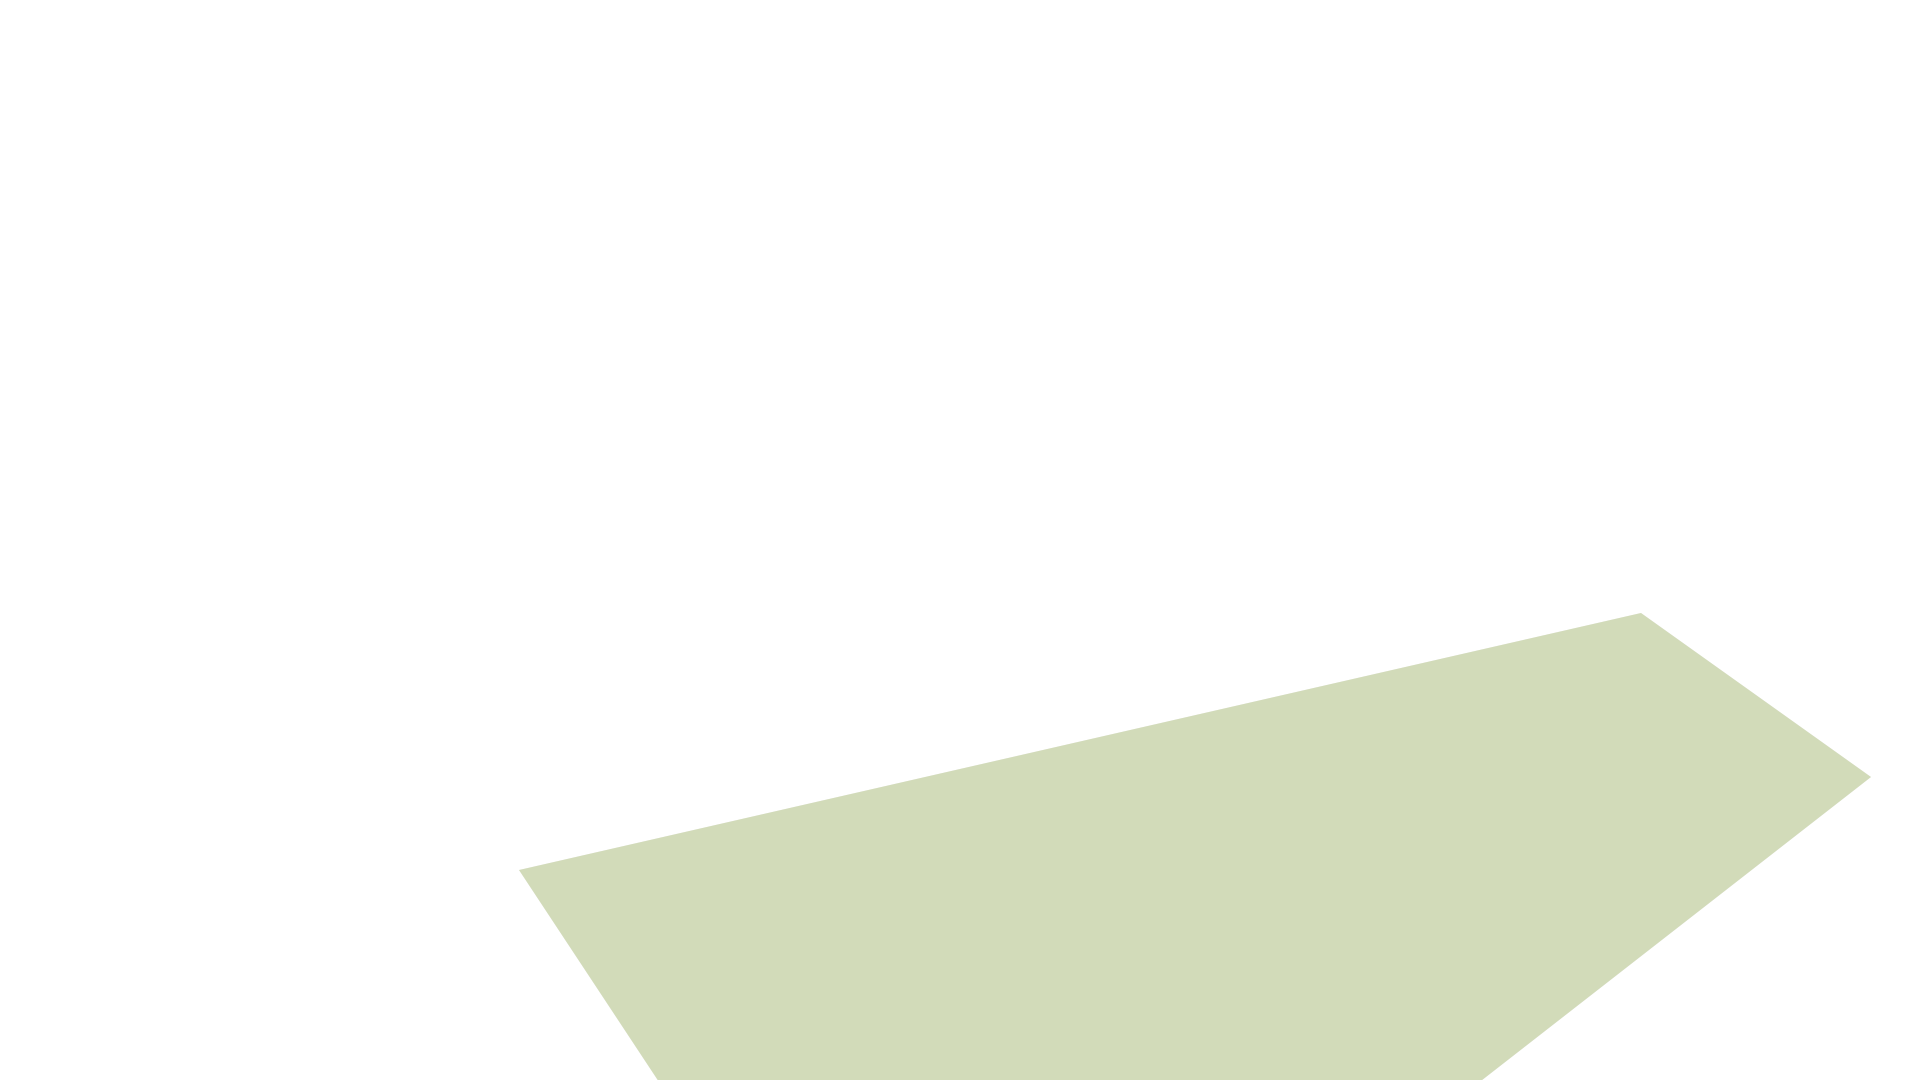
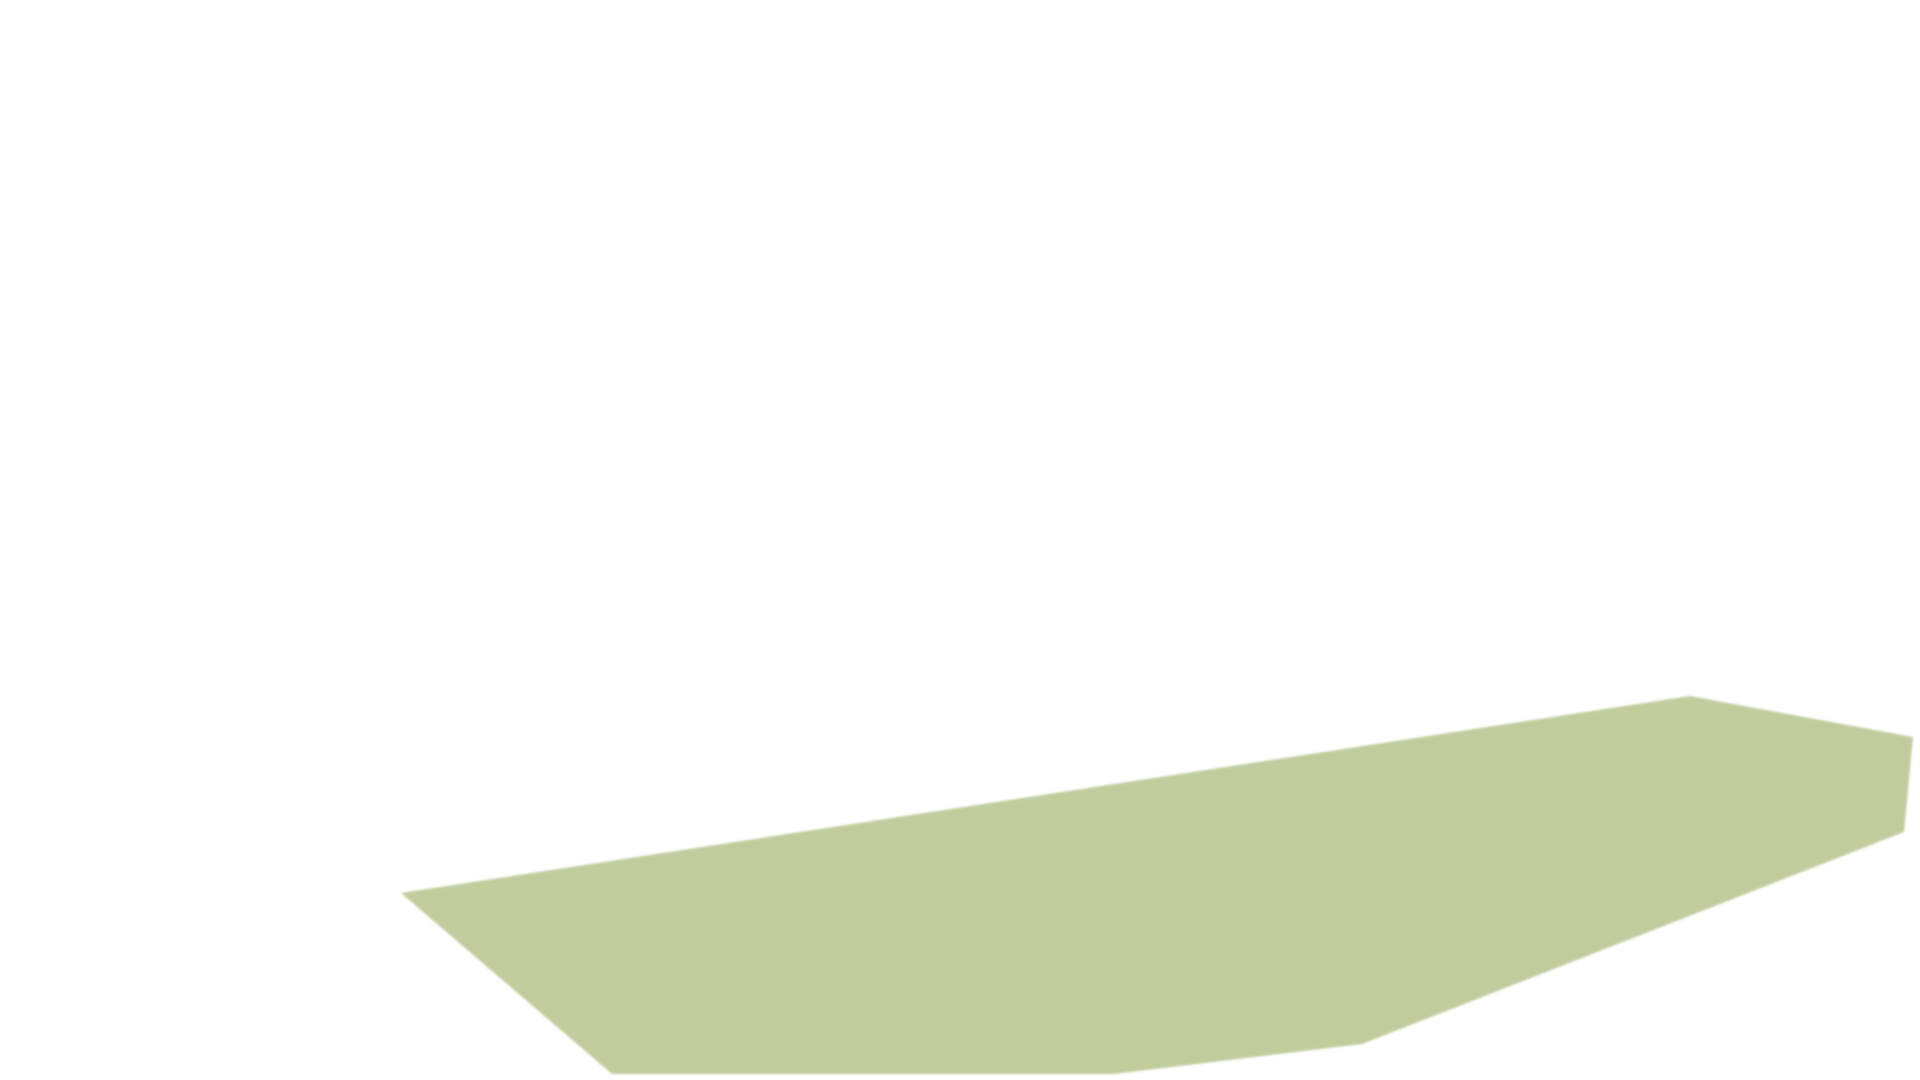
Update images

Changed region(s): [[0.1875, 0.55, 1.0, 1.0]]

diff --git a/build/six-diamonds.html b/build/six-diamonds.html
@@ -75,13 +75,13 @@
 		<div class="hero hero--interactive" id="hero">
 			<div class="hero__image interactive-image">
 
-				<img src="assets/images/temp/hero-six.jpg" alt="Hero image" usemap="#imagemap">
+				<img src="assets/images/temp/03.jpg" width="1920" height="1080" alt="Hero image" usemap="#imagemap">
 
 				<map name="imagemap" class="js-image-map">
-					<area target="" alt="layer1" title="Parter" data-url="./ajax/layer1.html" href="#layer1" coords="515,878,662,1077,1463,1073,1902,775,1612,612" shape="poly">
-					<area target="" alt="layer2" title="Floor 1" data-url="./ajax/layer1.html" href="#layer2" coords="484,641,545,719,1390,559,1395,473,544,598,484,546" shape="poly">
-					<area target="" alt="layer3" title="Floor 2" data-url="./ajax/layer3.html" href="#layer3" coords="486,539,542,593,1397,463,1407,356,532,448,477,419" shape="poly">
-					<area target="" alt="layer4" title="Floor 3" data-url="./ajax/layer4.html" href="#layer4" coords="459,261,511,293,1415,225,1407,349,522,437,474,409" shape="poly">
+					<area target="" alt="Parter" title="Parter" data-url="./ajax/layer1.html" href="#layer1" coords="356,900,1730,692,1908,761,1889,958,1487,1073,602,1066" shape="poly">
+					<area target="" alt="Floor 1" title="Floor 1" data-url="./ajax/layer1.html" href="#layer2" coords="183,519,363,546,1420,502,1423,605,361,702,175,627" shape="poly">
+					<area target="" alt="Floor 2" title="Floor 2" data-url="./ajax/layer3.html"  href="#layer3" coords="176,381,360,365,1411,373,1418,487,363,527,180,498" shape="poly">
+					<area target="" alt="Floor 3" title="Floor 3" data-url="./ajax/layer4.html" href="#layer4" coords="176,232,368,171,1421,253,1423,361,360,348,175,363" shape="poly">
 				</map>
 
 				<div class="interactive-image__layers">
@@ -204,15 +204,15 @@
 					<div class="slider__clip">
 						<div class="slider__slides js-slider-gallery-container">
 							<div class="slider__slide">
-								<img src="assets/images/temp/six.jpg" alt="image">
+								<img src="assets/images/temp/01.jpg" alt="image">
 							</div><!-- /.slider__slide -->
 
 							<div class="slider__slide">
-								<img src="assets/images/temp/six-1.jpg" alt="image">
+								<img src="assets/images/temp/02.jpg" alt="image">
 							</div><!-- /.slider__slide -->
 
 							<div class="slider__slide">
-								<img src="assets/images/temp/hero-six.jpg" alt="image">
+								<img src="assets/images/temp/03.jpg" alt="image">
 							</div><!-- /.slider__slide -->
 						</div><!-- /.slider__slides -->
 					</div><!-- /.slider__clip -->
@@ -222,15 +222,15 @@
 							<div class="slider__clip">
 								<div class="slider__slides">
 									<div class="slider__slide is-current">
-										<img src="assets/images/temp/six.jpg" alt="image">
+										<img src="assets/images/temp/01.jpg" alt="image">
 									</div><!-- /.slider__slide -->
 
 									<div class="slider__slide">
-										<img src="assets/images/temp/six-1.jpg" alt="image">
+										<img src="assets/images/temp/02.jpg" alt="image">
 									</div><!-- /.slider__slide -->
 
 									<div class="slider__slide">
-										<img src="assets/images/temp/hero-six.jpg" alt="image">
+										<img src="assets/images/temp/03.jpg" alt="image">
 									</div><!-- /.slider__slide -->
 								</div><!-- /.slider__slides -->
 							</div><!-- /.slider__clip -->

diff --git a/src/six-diamonds.html b/src/six-diamonds.html
@@ -8,13 +8,13 @@
 		<div class="hero hero--interactive" id="hero">
 			<div class="hero__image interactive-image">
 
-				<img src="assets/images/temp/hero-six.jpg" alt="Hero image" usemap="#imagemap">
+				<img src="assets/images/temp/03.jpg" width="1920" height="1080" alt="Hero image" usemap="#imagemap">
 
 				<map name="imagemap" class="js-image-map">
-					<area target="" alt="layer1" title="Parter" data-url="./ajax/layer1.html" href="#layer1" coords="515,878,662,1077,1463,1073,1902,775,1612,612" shape="poly">
-					<area target="" alt="layer2" title="Floor 1" data-url="./ajax/layer1.html" href="#layer2" coords="484,641,545,719,1390,559,1395,473,544,598,484,546" shape="poly">
-					<area target="" alt="layer3" title="Floor 2" data-url="./ajax/layer3.html" href="#layer3" coords="486,539,542,593,1397,463,1407,356,532,448,477,419" shape="poly">
-					<area target="" alt="layer4" title="Floor 3" data-url="./ajax/layer4.html" href="#layer4" coords="459,261,511,293,1415,225,1407,349,522,437,474,409" shape="poly">
+					<area target="" alt="Parter" title="Parter" data-url="./ajax/layer1.html" href="#layer1" coords="356,900,1730,692,1908,761,1889,958,1487,1073,602,1066" shape="poly">
+					<area target="" alt="Floor 1" title="Floor 1" data-url="./ajax/layer1.html" href="#layer2" coords="183,519,363,546,1420,502,1423,605,361,702,175,627" shape="poly">
+					<area target="" alt="Floor 2" title="Floor 2" data-url="./ajax/layer3.html"  href="#layer3" coords="176,381,360,365,1411,373,1418,487,363,527,180,498" shape="poly">
+					<area target="" alt="Floor 3" title="Floor 3" data-url="./ajax/layer4.html" href="#layer4" coords="176,232,368,171,1421,253,1423,361,360,348,175,363" shape="poly">
 				</map>
 
 				<div class="interactive-image__layers">
@@ -137,15 +137,15 @@
 					<div class="slider__clip">
 						<div class="slider__slides js-slider-gallery-container">
 							<div class="slider__slide">
-								<img src="assets/images/temp/six.jpg" alt="image">
+								<img src="assets/images/temp/01.jpg" alt="image">
 							</div><!-- /.slider__slide -->
 
 							<div class="slider__slide">
-								<img src="assets/images/temp/six-1.jpg" alt="image">
+								<img src="assets/images/temp/02.jpg" alt="image">
 							</div><!-- /.slider__slide -->
 
 							<div class="slider__slide">
-								<img src="assets/images/temp/hero-six.jpg" alt="image">
+								<img src="assets/images/temp/03.jpg" alt="image">
 							</div><!-- /.slider__slide -->
 						</div><!-- /.slider__slides -->
 					</div><!-- /.slider__clip -->
@@ -155,15 +155,15 @@
 							<div class="slider__clip">
 								<div class="slider__slides">
 									<div class="slider__slide is-current">
-										<img src="assets/images/temp/six.jpg" alt="image">
+										<img src="assets/images/temp/01.jpg" alt="image">
 									</div><!-- /.slider__slide -->
 
 									<div class="slider__slide">
-										<img src="assets/images/temp/six-1.jpg" alt="image">
+										<img src="assets/images/temp/02.jpg" alt="image">
 									</div><!-- /.slider__slide -->
 
 									<div class="slider__slide">
-										<img src="assets/images/temp/hero-six.jpg" alt="image">
+										<img src="assets/images/temp/03.jpg" alt="image">
 									</div><!-- /.slider__slide -->
 								</div><!-- /.slider__slides -->
 							</div><!-- /.slider__clip -->

diff --git a/build/ajax/layer1.html b/build/ajax/layer1.html
@@ -1,13 +1,13 @@
 <div class="popup">
 	<div class="popup__images">
 		<div class="interactive-image hidden-xs hidden-sm">
-			<img src="assets/images/temp/hero-six.jpg" alt="Hero image" usemap="#imagemap">
+			<img src="assets/images/temp/03.jpg" alt="Hero image" usemap="#imagemap">
 
 			<map name="imagemap" class="js-image-map">
-				<area target="" alt="layer1" title="Parter" data-url="./ajax/layer1.html" href="#layer1" coords="515,878,662,1077,1463,1073,1902,775,1612,612" shape="poly">
-				<area target="" alt="layer2" title="Floor 1" data-url="./ajax/layer2.html" href="#layer2" coords="484,641,545,719,1390,559,1395,473,544,598,484,546" shape="poly">
-				<area target="" alt="layer3" title="Floor 2" data-url="./ajax/layer3.html" href="#layer3" coords="486,539,542,593,1397,463,1407,356,532,448,477,419" shape="poly">
-				<area target="" alt="layer4" title="Floor 3" data-url="./ajax/layer4.html" href="#layer4" coords="459,261,511,293,1415,225,1407,349,522,437,474,409" shape="poly">
+				<area target="" alt="Parter" title="Parter" data-url="./ajax/layer1.html" href="#layer1" coords="356,900,1730,692,1908,761,1889,958,1487,1073,602,1066" shape="poly">
+				<area target="" alt="Floor 1" title="Floor 1" data-url="./ajax/layer2.html" href="#layer2" coords="183,519,363,546,1420,502,1423,605,361,702,175,627" shape="poly">
+				<area target="" alt="Floor 2" title="Floor 2" data-url="./ajax/layer3.html"  href="#layer3" coords="176,381,360,365,1411,373,1418,487,363,527,180,498" shape="poly">
+				<area target="" alt="Floor 3" title="Floor 3" data-url="./ajax/layer4.html" href="#layer4" coords="176,232,368,171,1421,253,1423,361,360,348,175,363" shape="poly">
 			</map>
 
 			<div class="interactive-image__layers">

diff --git a/src/public/ajax/layer1.html b/src/public/ajax/layer1.html
@@ -1,13 +1,13 @@
 <div class="popup">
 	<div class="popup__images">
 		<div class="interactive-image hidden-xs hidden-sm">
-			<img src="assets/images/temp/hero-six.jpg" alt="Hero image" usemap="#imagemap">
+			<img src="assets/images/temp/03.jpg" alt="Hero image" usemap="#imagemap">
 
 			<map name="imagemap" class="js-image-map">
-				<area target="" alt="layer1" title="Parter" data-url="./ajax/layer1.html" href="#layer1" coords="515,878,662,1077,1463,1073,1902,775,1612,612" shape="poly">
-				<area target="" alt="layer2" title="Floor 1" data-url="./ajax/layer2.html" href="#layer2" coords="484,641,545,719,1390,559,1395,473,544,598,484,546" shape="poly">
-				<area target="" alt="layer3" title="Floor 2" data-url="./ajax/layer3.html" href="#layer3" coords="486,539,542,593,1397,463,1407,356,532,448,477,419" shape="poly">
-				<area target="" alt="layer4" title="Floor 3" data-url="./ajax/layer4.html" href="#layer4" coords="459,261,511,293,1415,225,1407,349,522,437,474,409" shape="poly">
+				<area target="" alt="Parter" title="Parter" data-url="./ajax/layer1.html" href="#layer1" coords="356,900,1730,692,1908,761,1889,958,1487,1073,602,1066" shape="poly">
+				<area target="" alt="Floor 1" title="Floor 1" data-url="./ajax/layer2.html" href="#layer2" coords="183,519,363,546,1420,502,1423,605,361,702,175,627" shape="poly">
+				<area target="" alt="Floor 2" title="Floor 2" data-url="./ajax/layer3.html"  href="#layer3" coords="176,381,360,365,1411,373,1418,487,363,527,180,498" shape="poly">
+				<area target="" alt="Floor 3" title="Floor 3" data-url="./ajax/layer4.html" href="#layer4" coords="176,232,368,171,1421,253,1423,361,360,348,175,363" shape="poly">
 			</map>
 
 			<div class="interactive-image__layers">

diff --git a/build/assets/app.js b/build/assets/app.js
@@ -4010,7 +4010,6 @@ const openInteractivePopup = (url) => {
       ajaxContentAdded: function(evt) {
         handleAppartementTabs();
         handleNavFloors();
-        $(this.content).find("img[usemap]").rwdImageMaps();
         $(".js-image-map").on("mouseenter", "area", function(evt2) {
           const targetId = $(this).attr("href");
           $(targetId).addClass("is-visible--alt").siblings().removeClass("is-visible--alt");
@@ -4019,7 +4018,6 @@ const openInteractivePopup = (url) => {
         });
       },
       close: function() {
-        $("img[usemap]").rwdImageMaps();
       }
     }
   });

diff --git a/src/js/modules/interactive-popup.js b/src/js/modules/interactive-popup.js
@@ -25,7 +25,7 @@ const openInteractivePopup = (url) => {
 				handleAppartementTabs();
 				handleNavFloors();
 
-				$(this.content).find('img[usemap]').rwdImageMaps();
+				//$(this.content).find('img[usemap]').rwdImageMaps();
 
 				$('.js-image-map').on('mouseenter', 'area', function(evt) {
 					const targetId = $(this).attr('href');
@@ -37,7 +37,7 @@ const openInteractivePopup = (url) => {
 				});
 			},
 			close: function() {
-				$('img[usemap]').rwdImageMaps();
+				//$('img[usemap]').rwdImageMaps();
 			}
 		}
 	})

diff --git a/build/ajax/layer3.html b/build/ajax/layer3.html
@@ -1,7 +1,7 @@
 <div class="popup">
 	<div class="popup__images">
 		<div class="interactive-image hidden-xs hidden-sm">
-			<img src="assets/images/temp/hero-six.jpg" alt="Hero image" usemap="#imagemap">
+			<img src="assets/images/temp/03.jpg" alt="Hero image" usemap="#imagemap">
 
 			<map name="imagemap" class="js-image-map">
 				<area target="" alt="layer1" title="Parter" data-url="./ajax/layer1.html" href="#layer1" coords="515,878,662,1077,1463,1073,1902,775,1612,612" shape="poly">

diff --git a/build/ajax/layer4.html b/build/ajax/layer4.html
@@ -1,7 +1,7 @@
 <div class="popup">
 	<div class="popup__images">
 		<div class="interactive-image hidden-xs hidden-sm">
-			<img src="assets/images/temp/hero-six.jpg" alt="Hero image" usemap="#imagemap">
+			<img src="assets/images/temp/03.jpg" alt="Hero image" usemap="#imagemap">
 
 			<map name="imagemap" class="js-image-map">
 				<area target="" alt="layer1" title="Parter" data-url="./ajax/layer1.html" href="#layer1" coords="515,878,662,1077,1463,1073,1902,775,1612,612" shape="poly">

diff --git a/src/public/ajax/layer3.html b/src/public/ajax/layer3.html
@@ -1,7 +1,7 @@
 <div class="popup">
 	<div class="popup__images">
 		<div class="interactive-image hidden-xs hidden-sm">
-			<img src="assets/images/temp/hero-six.jpg" alt="Hero image" usemap="#imagemap">
+			<img src="assets/images/temp/03.jpg" alt="Hero image" usemap="#imagemap">
 
 			<map name="imagemap" class="js-image-map">
 				<area target="" alt="layer1" title="Parter" data-url="./ajax/layer1.html" href="#layer1" coords="515,878,662,1077,1463,1073,1902,775,1612,612" shape="poly">

diff --git a/src/public/ajax/layer4.html b/src/public/ajax/layer4.html
@@ -1,7 +1,7 @@
 <div class="popup">
 	<div class="popup__images">
 		<div class="interactive-image hidden-xs hidden-sm">
-			<img src="assets/images/temp/hero-six.jpg" alt="Hero image" usemap="#imagemap">
+			<img src="assets/images/temp/03.jpg" alt="Hero image" usemap="#imagemap">
 
 			<map name="imagemap" class="js-image-map">
 				<area target="" alt="layer1" title="Parter" data-url="./ajax/layer1.html" href="#layer1" coords="515,878,662,1077,1463,1073,1902,775,1612,612" shape="poly">

diff --git a/build/assets/style.css b/build/assets/style.css
@@ -1355,11 +1355,14 @@ blockquote:last-child {
 }
 /*  Hero interactive  */
 .hero--interactive {
-  min-height: 80vh;
+  min-height: 900px;
+  height: 100vh;
+  max-height: 1080px;
 }
 @media (max-width: 1023px) {
   .hero--interactive {
     min-height: 50vh;
+    height: auto;
   }
 }
 .hero--interactive .hero__inner {

diff --git a/src/scss/components/_hero.scss b/src/scss/components/_hero.scss
@@ -87,10 +87,13 @@
 /*  Hero interactive  */
 
 .hero--interactive {
-	min-height: 80vh;
+	min-height: 900px;
+	height: 100vh;
+	max-height: 1080px;
 
 	@include breakpoint-down(tablet) {
 		min-height: 50vh;
+		height: auto;
 	}
 
 	.hero__inner {
